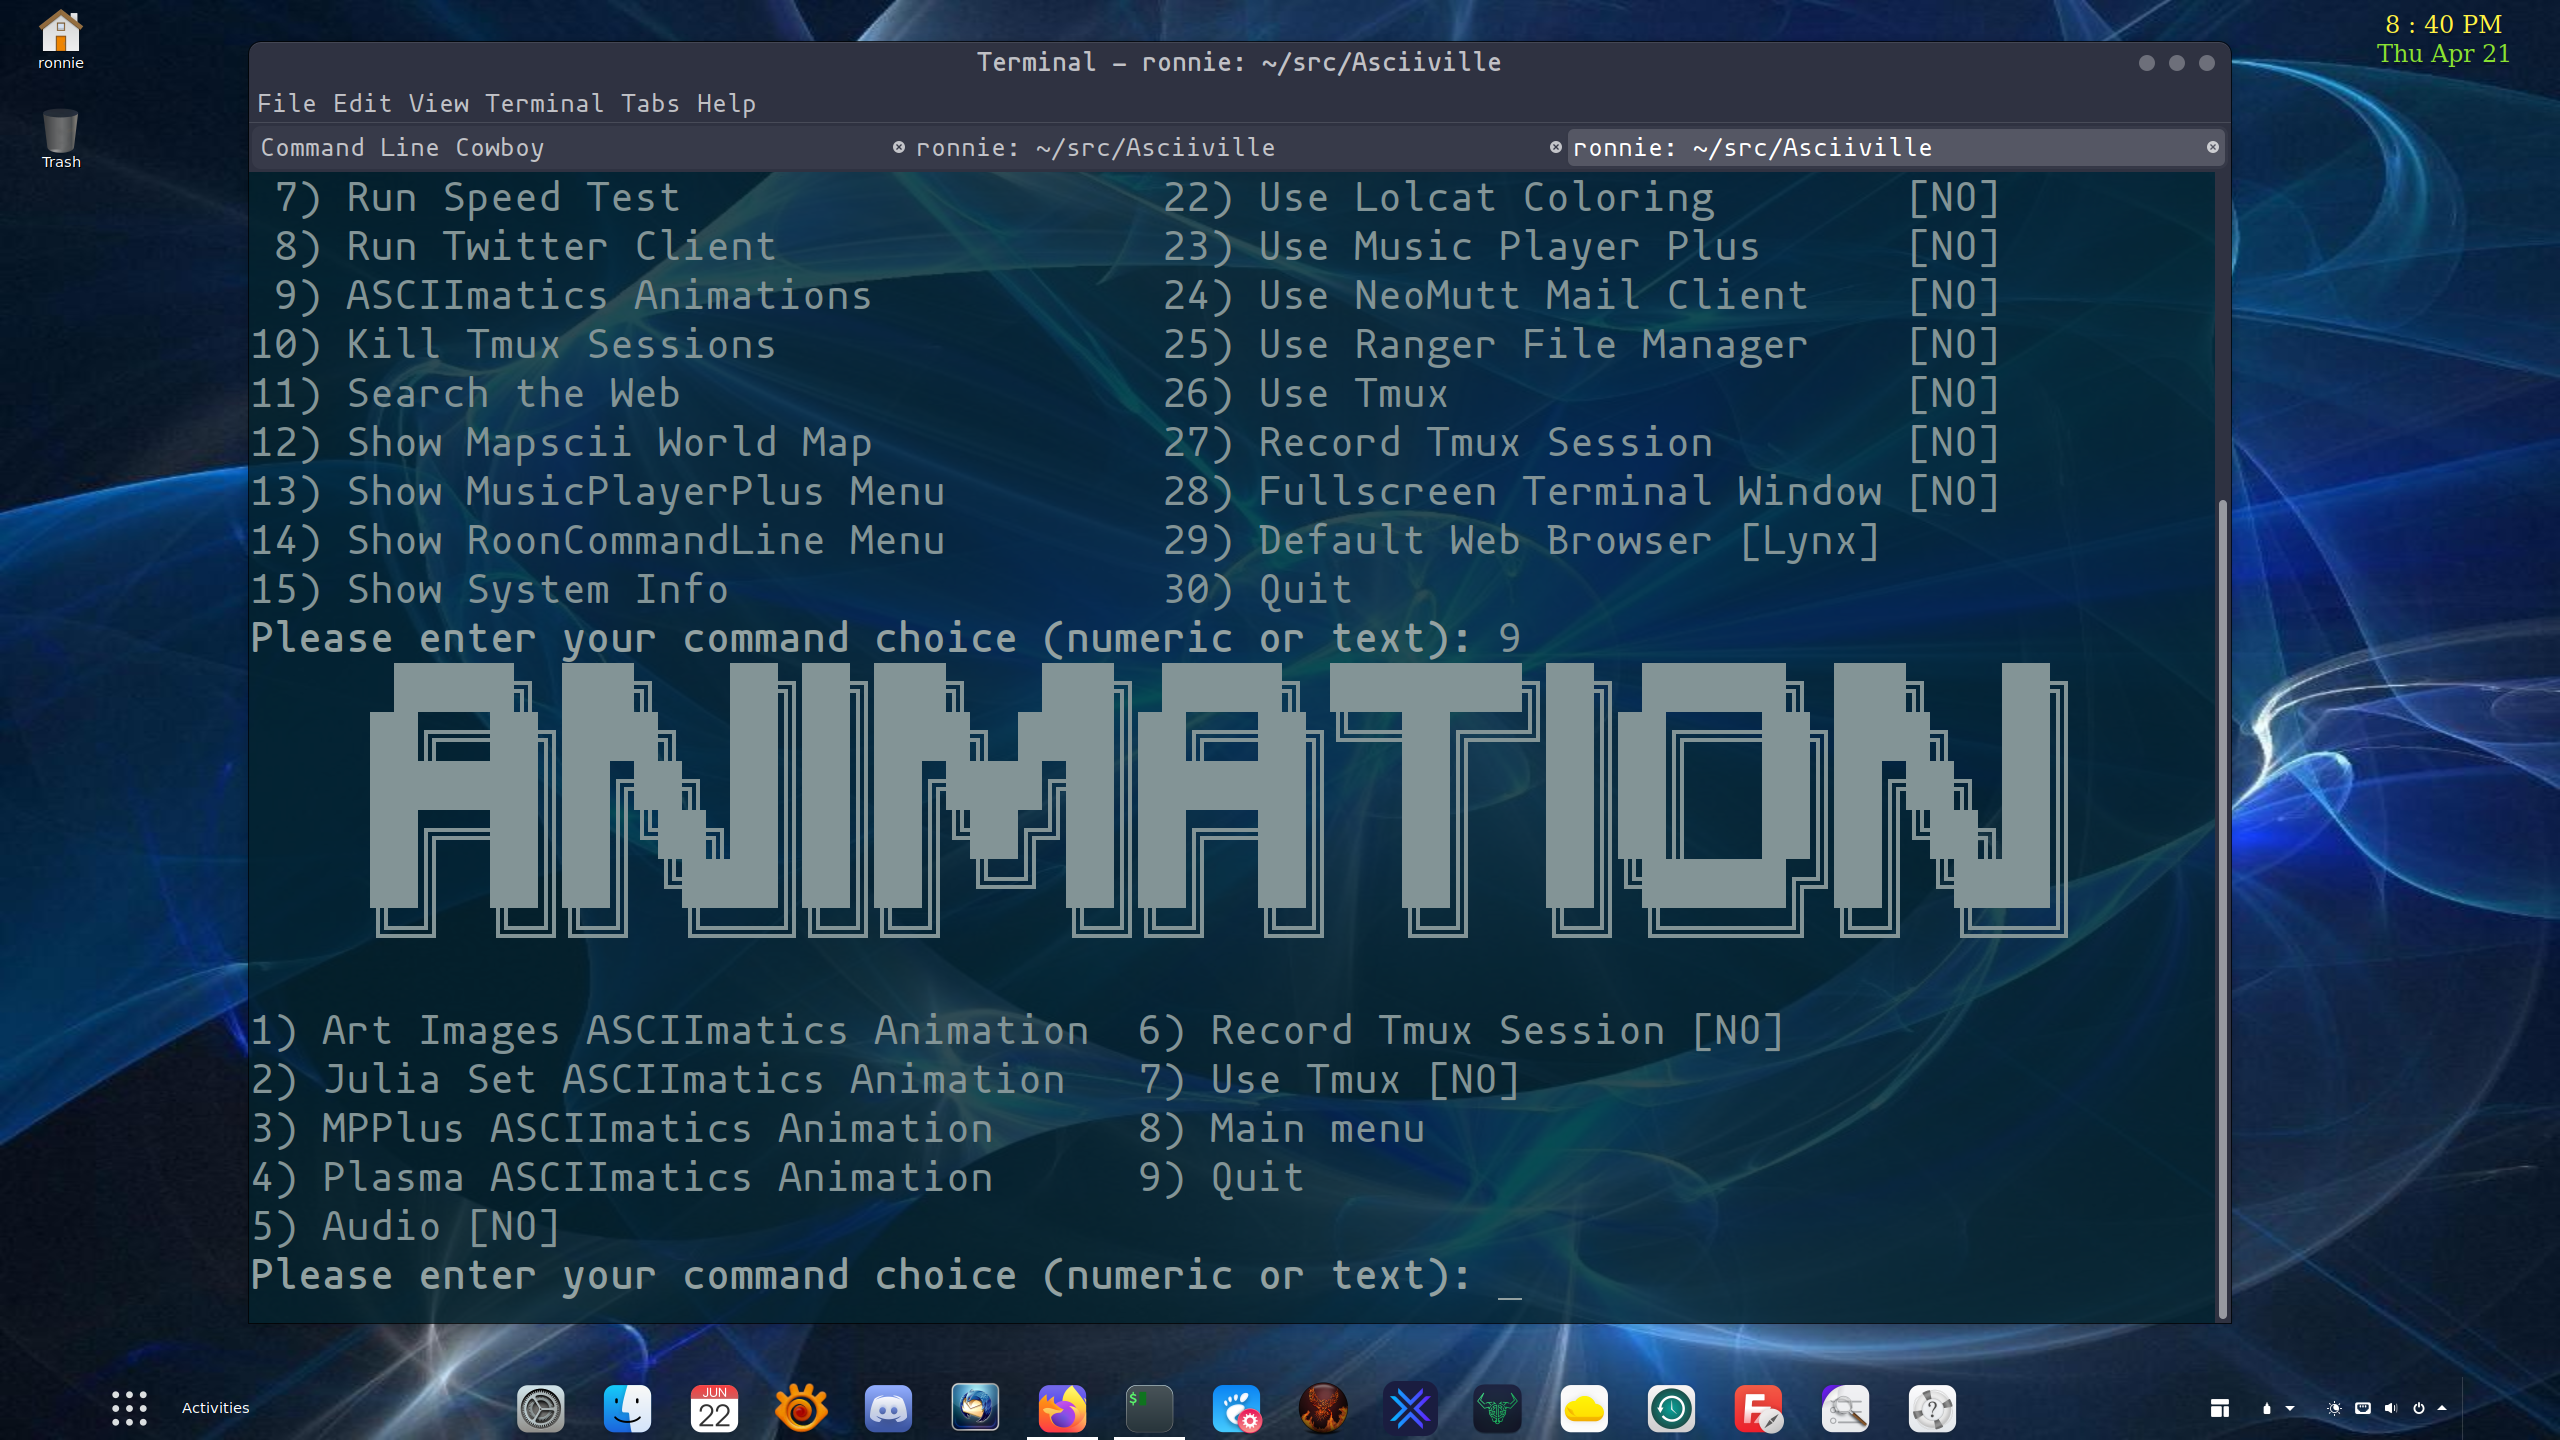
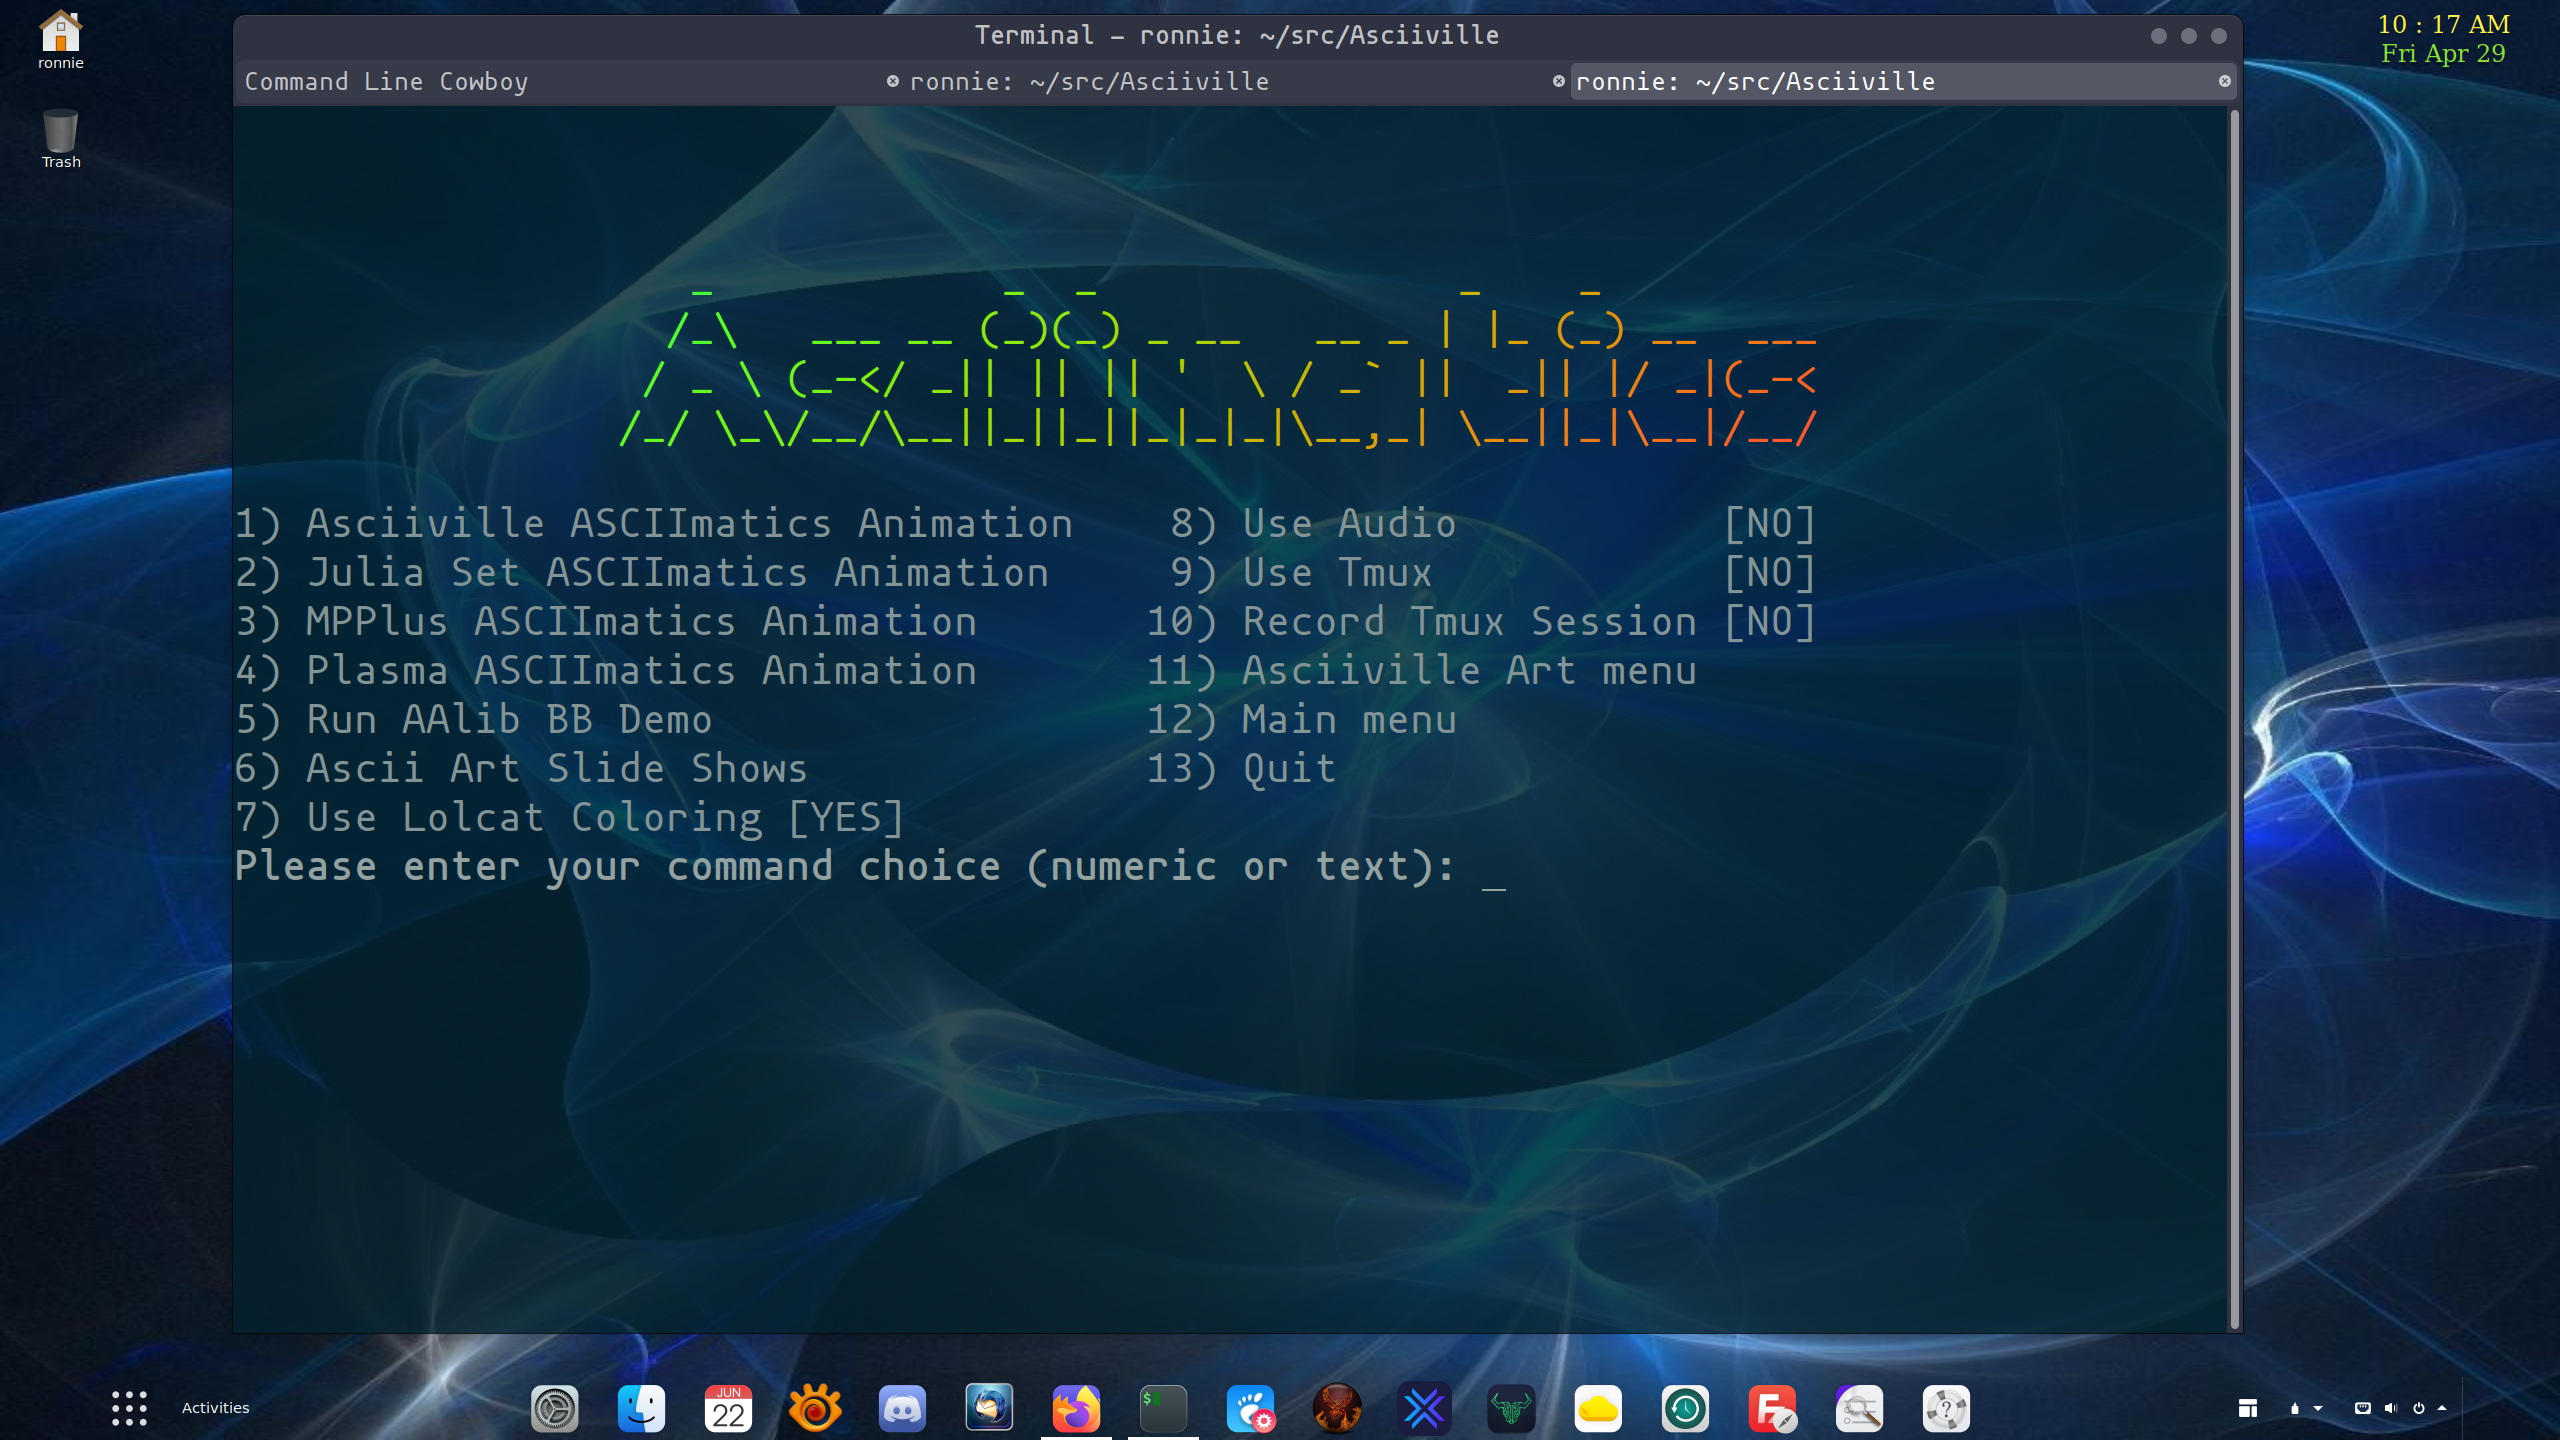
Update and add screenshots

diff --git a/README.md b/README.md
@@ -658,9 +658,16 @@ Asciiville Main Menu<br/>
   <img src="screenshots/Asciiville-MainMenu.png" style="width:800px;height:600px;">
 </p>
 <p float="left">
-Asciiville Sub-Menus: Asciimatics Animations, MusicPlayerPlus, and RoonCommandLine<br/>
+Asciiville Sub-Menus: Ascii Art, Asciimatics Animations, MusicPlayerPlus, and RoonCommandLine<br/>
+  <img src="screenshots/Asciiville-Art.png" style="width:800px;height:600px;">
   <img src="screenshots/Asciiville-Animation.png" style="width:800px;height:600px;">
   <img src="screenshots/Asciiville-Music.png" style="width:800px;height:600px;">
   <img src="screenshots/Asciiville-Roon.png" style="width:800px;height:600px;">
+</p>
+<p float="left">
+Ascii System Monitor, Maps, and Weather<br/>
+  <img src="screenshots/Btop.png" style="width:800px;height:600px;">
+  <img src="screenshots/Mapscii-Ukraine.png" style="width:800px;height:600px;">
+  <img src="screenshots/Weather.png" style="width:800px;height:600px;">
 </p>
 
